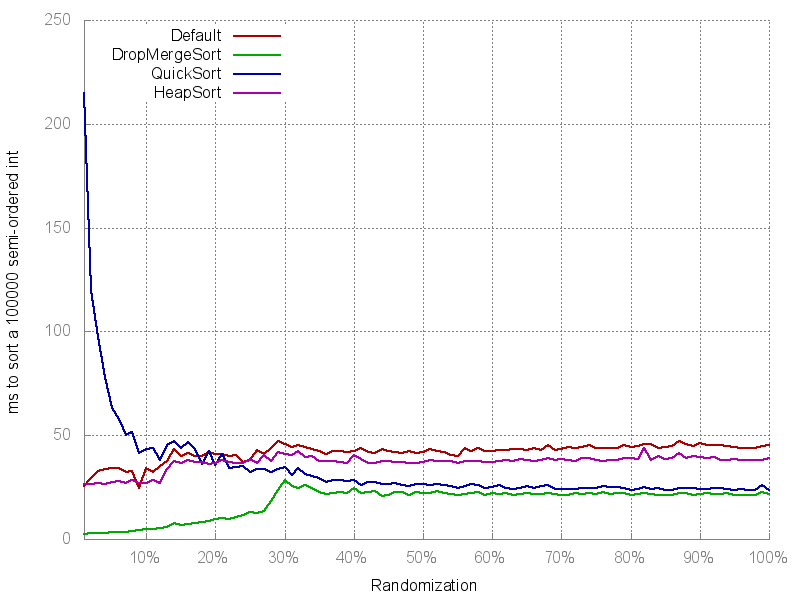
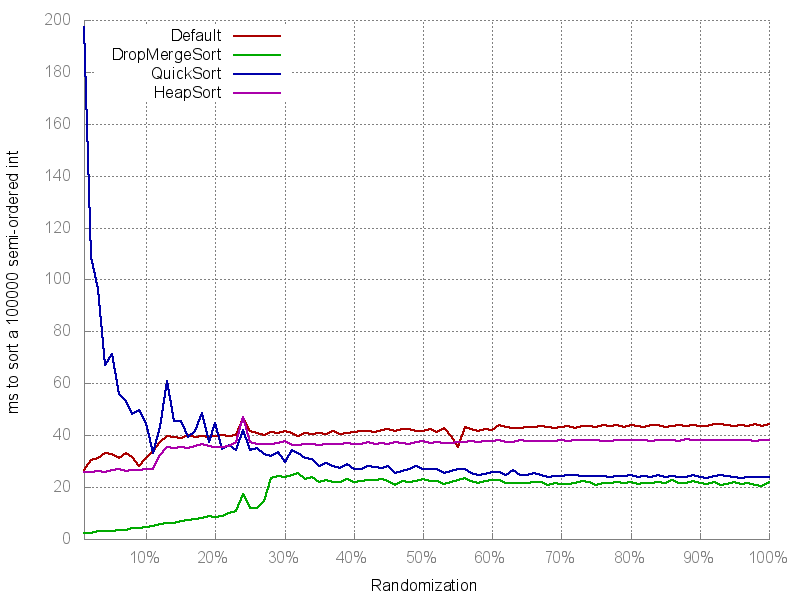
Addition of 1M ints benchmark

diff --git a/tests/benchmark.js b/tests/benchmark.js
@@ -43,6 +43,9 @@ let benchmarks = [{
 }, {
     count: 100 * 1000,
     type: "int"
+}, {
+    count: 1000 * 1000,
+    type: "int"
 }];
 
 benchmarks.forEach((el) => {
@@ -52,7 +55,7 @@ benchmarks.forEach((el) => {
 
     let bar = new ProgressBar(`Test of ${count} ${type} [:bar] :percent`, {
         total: 100,
-        width: 40
+        width: 30
     });
 
     for (let i = 1; i <= 100; i++) {
@@ -72,21 +75,25 @@ benchmarks.forEach((el) => {
                 arrays[k] = data.slice(); //just in case to ensure unsorted arrays
             }
             var f = (x, y) => x - y;
-            t = new Date();
+            t = process.hrtime();
             arrays[0].sort(f);
-            time[0] += new Date() - t;
+            let t2 = process.hrtime();
+            time[0] += (t2[0] - t[0]) * 1e9 + t2[1] - t[1];
 
-            t = new Date();
+            t = process.hrtime();
             dmsort(arrays[1], f);
-            time[1] += new Date() - t;
+            t2 = process.hrtime();
+            time[1] += (t2[0] - t[0]) * 1e9 + t2[1] - t[1];
 
-            t = new Date();
+            t = process.hrtime();
             quickSort(arrays[2], f);
-            time[2] += new Date() - t;
+            t2 = process.hrtime();
+            time[2] += (t2[0] - t[0]) * 1e9 + t2[1] - t[1];
 
-            t = new Date();
+            t = process.hrtime();
             heapSort(arrays[3], f);
-            time[3] += new Date() - t;
+            t2 = process.hrtime();
+            time[3] += (t2[0] - t[0]) * 1e9 + t2[1] - t[1];
 
             if (arrays[3].equals(arrays[2]) !== true || arrays[3].equals(arrays[1]) !== true || arrays[3].equals(arrays[0]) !== true) {
                 console.log(arrays[0]);
@@ -95,11 +102,13 @@ benchmarks.forEach((el) => {
                 console.log(arrays[3]);
                 throw "NOT EQUAL FATAL ERROR";
             }
-        }
+        } time[j]
         for (let j = 0; j < time.length; j++) {
             time[j] /= loop;
+            time[j] /= 1e6;//milliseconds
+            time[j] = time[j].toFixed(2);
         }
-
+        console.log(time.slice());
         results.push(time.slice());
 
         bar.tick();

diff --git a/README.md b/README.md
@@ -8,6 +8,7 @@ Go there for details on the algorithm itself.
 
 Benchmarks:
 
+![Benchmark of sorting 1M integers](images/1000000int.png)
 ![Benchmark of sorting 100k integers](images/100000int.png)
 ![Benchmark of sorting 10k integers](images/10000int.png)
 ![Benchmark of sorting 1k integers](images/1000int.png)
